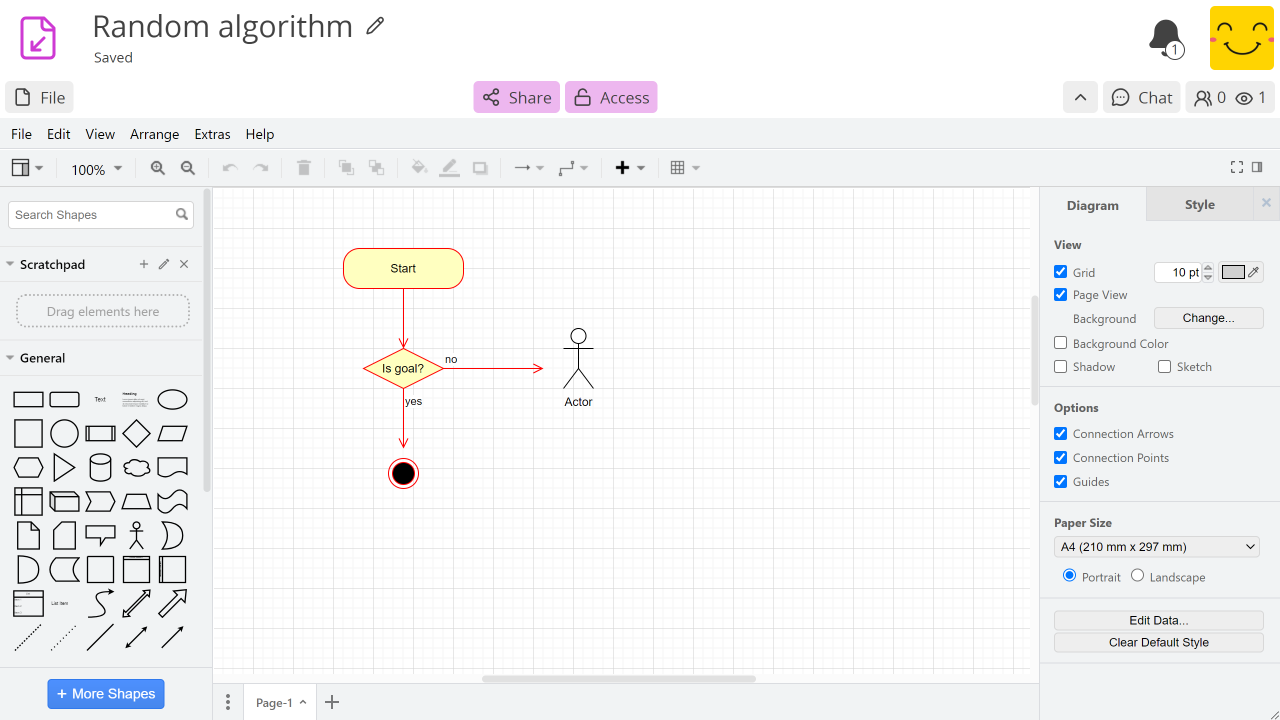
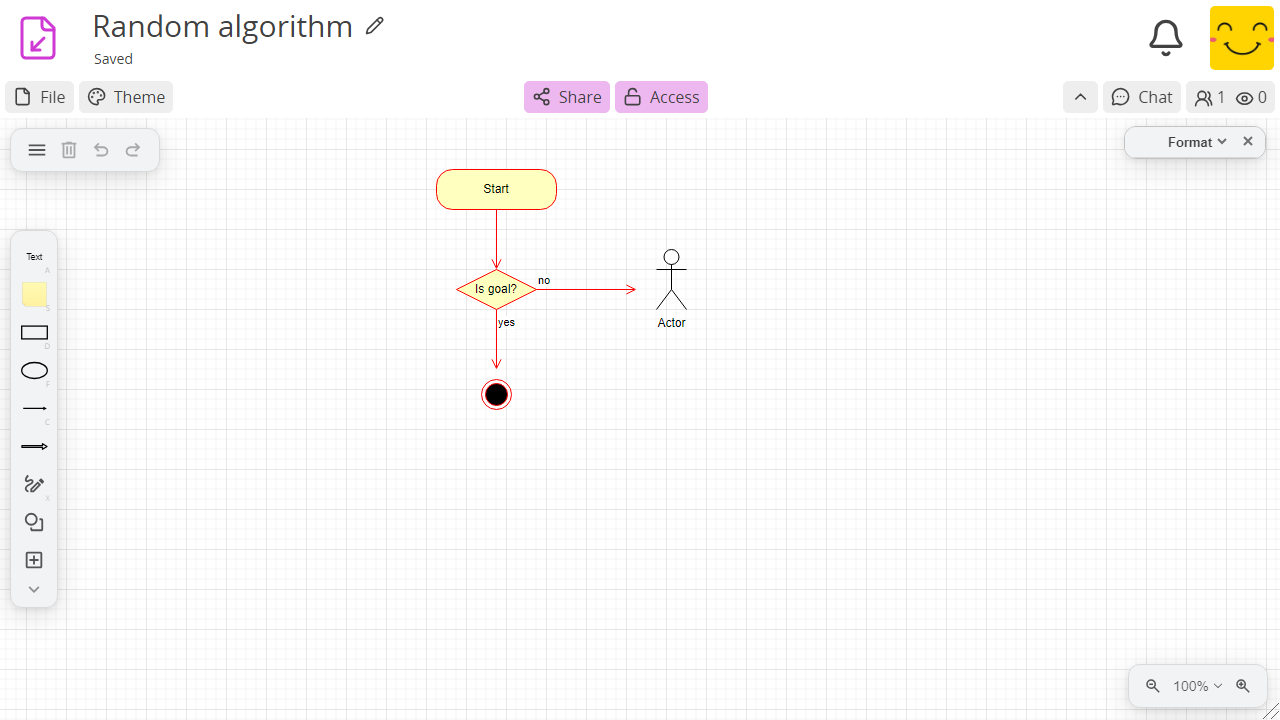
Update ss and add section about new themes functionality

diff --git a/user_guide/apps/diagram.rst b/user_guide/apps/diagram.rst
@@ -13,13 +13,26 @@ Documentation
 
 Please refer to the `Draw.io documentation <https://www.drawio.com/doc/>`__ for a diagram user-guide.
 
+.. _app_diagram_theme:
+
+Themes
+------
+
+Diagram defaults to the **Sketch** theme. Use |cptools palette| **Theme** in the CryptPad toolbar to switch between the three available themes:
+
+- **Sketch** (default): a simplified infinite canvas suited to mind-mapping, sketching, and freehand drawing.
+- **Simple**: a compact interface combining elements of Sketch and Classic.
+- **Classic**: the full Draw.io interface with menus, toolbar, and shape libraries.
+
+For more information about these themes, please refer to the `Draw.io documentation on editor themes <https://www.drawio.com/docs/manual/editor/appearance/>`__.
+
 Toolbars
 --------
 
-CryptPad integrates Draw.io diagrams into the same encrypted collaboration system as the other applications. Additionally Draw.io provides a wide range of functions in a tabbed toolbar. This results in a double toolbar that can cause confusion:
+CryptPad integrates Draw.io diagrams into the same encrypted collaboration system as the other applications. Draw.io provides its own toolbar alongside CryptPad’s. This results in a double toolbar that can cause confusion:
 
-- The topmost **CryptPad toolbar** is used for |file-o| **File** operations (including import/export, history, properties, etc) as well as |share-alt| **Share** and |unlock-alt| **Access**.
-- The **Draw.io toolbar** is used for all functionality within the diagram document itself.
+- The topmost **CryptPad toolbar** is used for |file-o| **File** operations (including import/export, history, properties, etc) as well as |share-alt| **Share**, |unlock-alt| **Access**, and |cptools palette| **Theme**.
+- The **Draw.io toolbar** is used for all functionality within the diagram document itself. Its layout depends on the selected :ref:`theme <app_diagram_theme>`.
 
 Import/Export
 -------------
